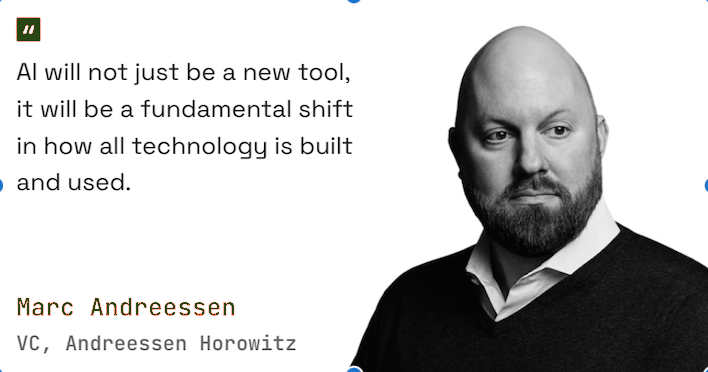
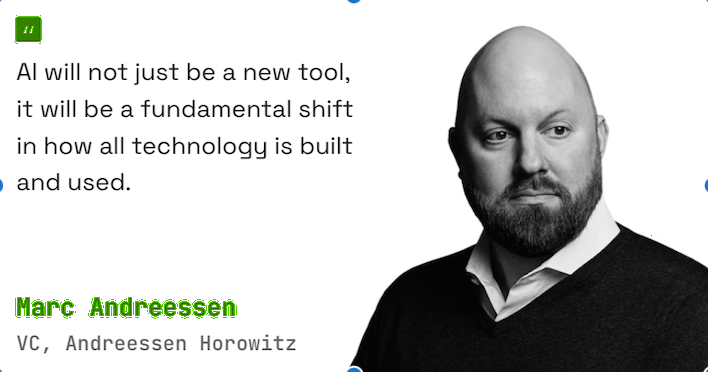
fix(testimonials): apply fluid height scaling and seamless HSL Forest Green recolor

Changed region(s): [[0.0, 0.7984, 0.3418, 0.8575], [0.0, 0.0296, 0.0621, 0.1183]]

diff --git a/components/IndustryVoices.tsx b/components/IndustryVoices.tsx
@@ -1,6 +1,5 @@
 "use client";
 
-import Image from "next/image";
 import { Marquee } from "@/components/ui/marquee";
 
 const leaderImages = [
@@ -13,16 +12,13 @@ const leaderImages = [
 export default function IndustryVoices() {
     return (
         <div className="voices-section py-8" aria-label="Industry perspectives on AI">
-            <Marquee className="[--gap:24px] [--duration:40s]" pauseOnHover={false} reverse>
+            <Marquee className="[--gap:0px] [--duration:40s]" pauseOnHover={false} reverse>
                 {[...leaderImages, ...leaderImages].map((imgSrc, i) => (
-                    <div key={i} className="flex-shrink-0" aria-hidden={i >= leaderImages.length}>
-                        <Image
+                    <div key={i} className="flex-shrink-0 border-r border-[#121212]/10" aria-hidden={i >= leaderImages.length}>
+                        <img
                             src={imgSrc}
                             alt={`Leader Testimonial ${i + 1}`}
-                            width={340} // Approximate dimensions based on standard tweet card structure
-                            height={180}
-                            className="rounded-xl border border-black/10 shadow-sm object-contain h-auto"
-                            unoptimized // Use unoptimized if there are weird NextImage caching issues on these raw screenshots
+                            className="h-[280px] md:h-[320px] w-auto object-contain bg-white"
                         />
                     </div>
                 ))}
